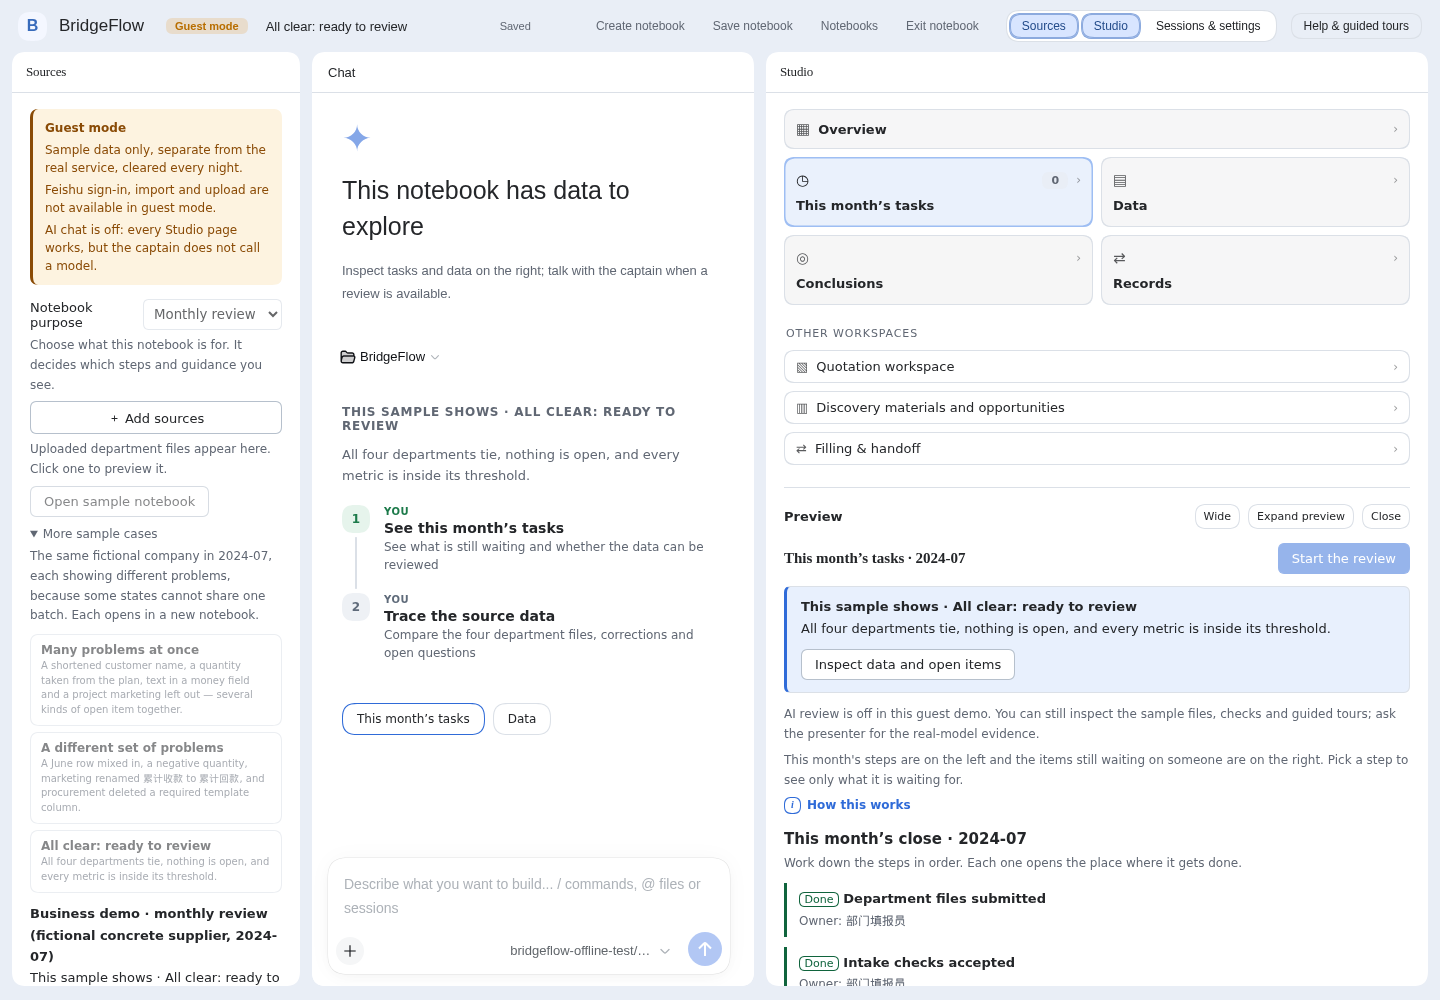
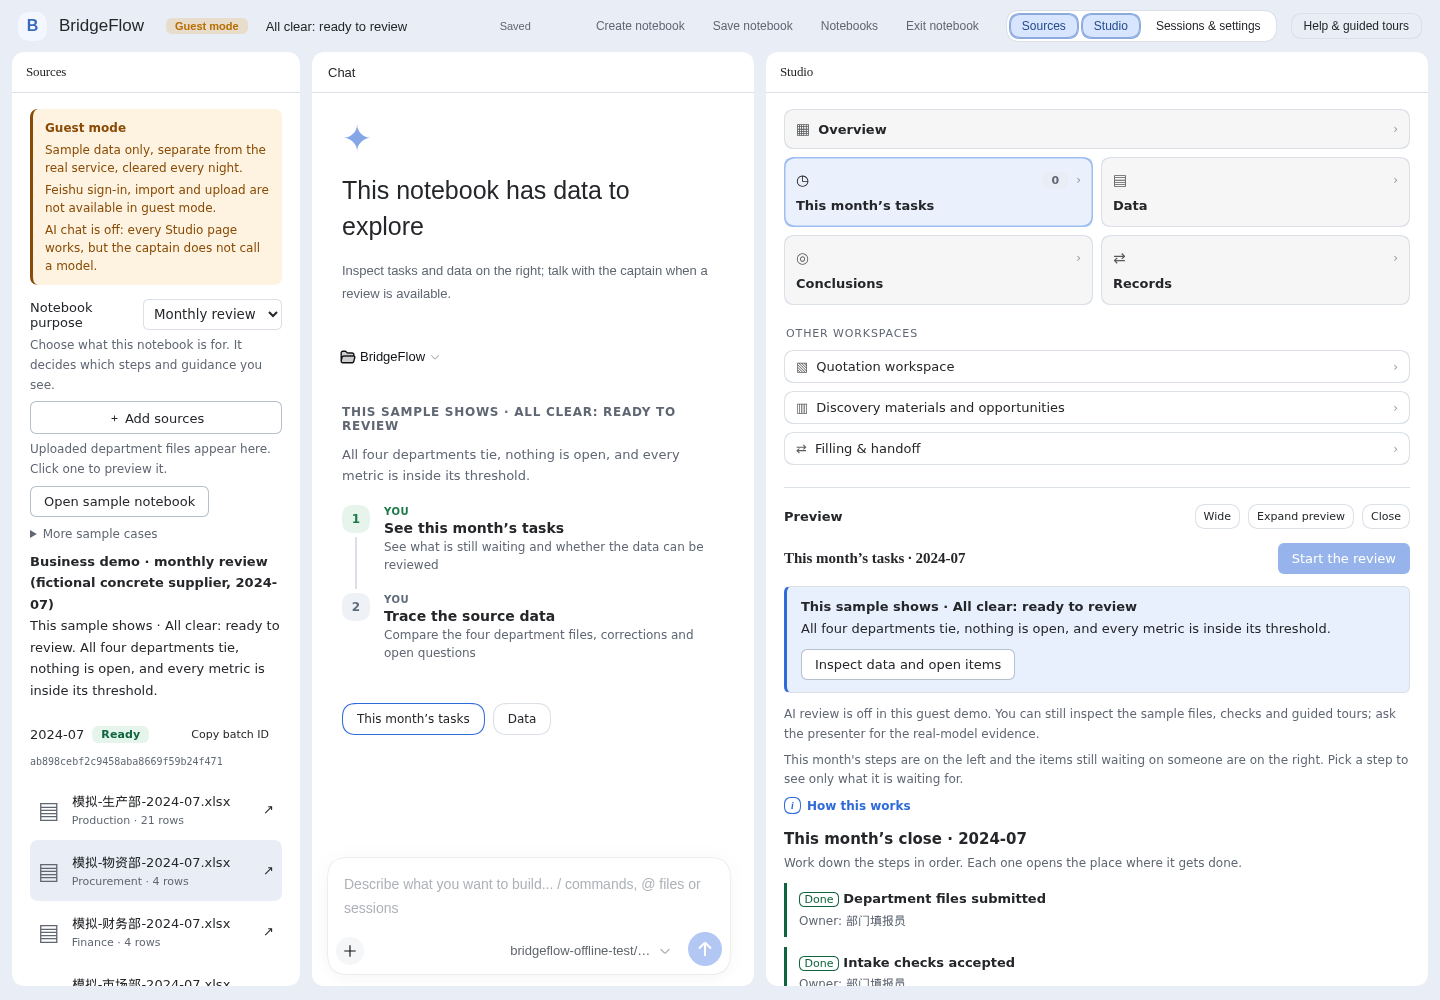
Fold sample picker after guest case selection

diff --git a/plugins/src/client/sample-cases.tsx b/plugins/src/client/sample-cases.tsx
@@ -1,4 +1,4 @@
-import { useEffect, useState } from 'react'
+import { useEffect, useRef, useState } from 'react'
 import { api, useUI } from './ui.ts'
 
 type Case = { id: string; case_id: string; title: [string, string]; summary: [string, string] }
@@ -25,6 +25,7 @@ export function useDemoCase(caseId: string): Case | null {
  */
 export function SampleCases({ disabled, open }: { disabled: boolean; open: (id: string, title: string) => void }) {
   const { t, language } = useUI()
+  const picker = useRef<HTMLDetailsElement>(null)
   const [cases, setCases] = useState<Case[]>([])
   useEffect(() => {
     const controller = new AbortController()
@@ -34,11 +35,11 @@ export function SampleCases({ disabled, open }: { disabled: boolean; open: (id: 
   }, [])
   if (!cases.length) return null
   const pick = (pair: [string, string]) => pair[language === 'zh' ? 0 : 1]
-  return <details className="bf-sample-cases">
+  return <details ref={picker} className="bf-sample-cases">
     <summary>{t('sampleCases')}</summary>
     <p className="bf-hint">{t('sampleCasesHelp')}</p>
     <ul>{cases.map(c => <li key={c.id}>
-      <button data-case={c.id} disabled={disabled} onClick={() => open(c.id, pick(c.title))}><strong>{pick(c.title)}</strong><small>{pick(c.summary)}</small></button>
+      <button data-case={c.id} disabled={disabled} onClick={() => { if (picker.current) picker.current.open = false; open(c.id, pick(c.title)) }}><strong>{pick(c.title)}</strong><small>{pick(c.summary)}</small></button>
     </li>)}</ul>
   </details>
 }

diff --git a/docs/00-status.md b/docs/00-status.md
@@ -27,16 +27,18 @@
 
 这次比 [09-20 自评](../HANDOFF.md#历史评审-rubric-自评2026-09-20)更有把握的部分是第 2、3、6 项：多步真实模型链路、全量工具选择评测及真实运行轨迹已经留证。第 3 项不因 18/18 直接给满分，第 6 项也不把脚本化回归当成模型质量证明。
 
-## 27 日交付前的演示闸门（2026-09-24，`main@12b790c` 加 PR #263）
+## 27 日交付前的演示闸门（2026-09-24，`main@d2baf34` 加后续本地修复）
 
 **当前仍是待验收，不把上面的技术自评当成交付分数。** 新功能和新需求先暂停，只处理演示主路径的故障、错误表述及其回归。
+
+[PR #263](https://github.com/EricWang1358/BridgeFlow-AI/pull/263) 已合并；[main 测试、CD、公网健康检查和实例预检](https://github.com/EricWang1358/BridgeFlow-AI/actions/runs/35961749825)全部通过。合并后只读探测：主站返回 301、门户 `/health` 返回 200；门户 `/guest` 仍返回 404，`guest.` 子域名 TLS 握手失败。CD 已部署主站，独立访客入口尚未完成服务器装配。
 
 | 闸门 | 当前证据与结论 |
 | --- | --- |
 | 本地离线主路径 | 在私有 dsh 上复跑员工身份的材料→候选→图→评分→会议→决策浏览器旅程、工作流、月结、四部门研判、报价、三套样例、冷重启、笔记本恢复、部门故障和 README 截图旅程，均通过。员工旅程最初被过期的浏览器测试夹具挡住：它仍写旧的 `users` ACL，且按旧界面查找折叠内容和流程节点；修复测试夹具后通过。评分图第 51 个候选标题的 API 回归与引导四象限完整可见性检查已补上并通过。三本样例的待办固定在各自批次，回开第一本仍显示自己的 15 条；趋势图的当前月端点也固定为正在看的批次。左侧来源、中央欢迎与任务页显示一致的案例问题，已载入样例不再要求重新导入；示例切换入口留在首屏，延迟批次响应时不会短暂显示旧批次来源，未就绪研判按钮及新笔记本创建时快速转向流转页也在浏览器中核对。复现：`BRIDGEFLOW_TEST_DISCOVERY=1 BRIDGEFLOW_TEST_EMPLOYEE=1 BRIDGEFLOW_LIVE=0 pnpm --dir plugins smoke:web`，以及 [交接文档中的其余命令](../HANDOFF.md)。测试模型是脚本化的，不能代替现场真实模型验收。 |
 | 代码回归 | 本轮当前分支后端 743、插件 100 条全过，TypeScript 类型检查与相关 Ruff 通过。门户未改，46 条沿用上轮验证；CI 以 PR 当前提交为准。 |
 | 负责人本机演示 | 3082 已重启到当前分支；8000 后端、8100 门户健康，3082 无会话的 401 符合身份围栏预期。新 Command Code 接口以极小请求得到 `OK`，原生 dsh 单题真实模型工具选择正确调用 `batch_summary`（55,625 token）。无飞书登录态的浏览器会被数据接口要求登录；负责人登录后仍需手工走查四样例与两条引导，不能把进程健康或单题模型调用当作走查完成。 |
-| 公网访客入口 | 独立访客实例代码已合入；2026-09-24 只读探测：门户首页返回 200，却没有 `/guest` 入口，`guest.<domain>` TLS 仍不可用。[服务器装配步骤](22-lightsail-deploy.md)中的 DNS、环境变量、服务与重置定时器仍待执行和验收。当前分支的浏览器旅程验证了关闭 AI 时任务页、流转页的禁用与提示；另在临时隔离 worktree 启动真实 `--guest` 进程，从其令牌入站，干净样例与流转样例均可浏览、相应模型按钮禁用且无页面错误。部署 preflight 新增启用 guest 后的入口、令牌和 TLS 条件检查，尚未在服务器执行。该验证仍不等于公网验收。 |
+| 公网访客入口 | 独立访客实例代码已合入；2026-09-24 合并部署后只读探测：门户首页 200、`/guest` 404，`guest.<domain>` TLS 仍不可用。[服务器装配步骤](22-lightsail-deploy.md)中的 DNS、环境变量、服务与重置定时器仍待执行和验收。浏览器旅程验证了关闭 AI 时任务页、流转页的禁用与提示；访客打开样例后选择器会收起，使当前案例说明回到首屏。另在临时隔离 worktree 启动真实 `--guest` 进程，从其令牌入站，干净样例与流转样例均可浏览、相应模型按钮禁用且无页面错误。部署 preflight 新增启用 guest 后的入口、令牌和 TLS 条件检查；当前未启用 guest，条件检查仍无现场结果。该验证仍不等于公网验收。 |
 | 真实业务输入 | 客户导出、业务口径及企业签核仍未到；[外部输入清单](27-external-inputs.md)未收齐。20 万行样例在现有上传/解压上限下导不进，实测见本文下方的 #228 记录。交付演示应使用已验证的合成样例并如实标明边界。 |
 
 ## 引导补流程线路、样例覆盖与私有 dsh（2026-09-24，分支 `feat/tour-workflow`）

diff --git a/HANDOFF.md b/HANDOFF.md
@@ -6,6 +6,7 @@
 
 ## 2026-09-24 交付前逐项打磨：评委看三本样例
 
+- **访客示例切换**：访客从「更多示例」打开样例后，列表会继续展开，把当前案例说明挤出首屏。现在点案例时先收起选择器；浏览器回归先复现失败、修复后通过，[访客截图](docs/evidence/demo-cases/case-clean-guest.png)显示当前案例及文件在首屏。等待笔记本加载完成后再截图，避免把短暂的加载状态误作最终画面。
 - **已载入样例的中央引导**：空会话原本始终写「先导入四部门文件」并给「开始导入」，即使四份样例文件早已载入。现在有批次时中央欢迎语和下一步改为当前样例的问题、查看本月任务、追到来源数据；空白笔记本仍显示原导入路径。文案来自同一案例登记表，不引导有问题的批次直接研判。三案例与中文浏览器旅程检查中央文案，[截图](docs/evidence/demo-cases/)及 README 截图已更新。
 - **趋势图串样例修复**：同月后导入的样例曾覆盖较早样例趋势图的 7 月末端点，导致图表与正在看的笔记本不一致。现在末端固定取当前 `batch_id`，只在历史月份查最新可见批次；双样例回归先复现失败、修复后通过。
 - **切换时不闪旧内容**：路由切到新笔记本后，来源文件、产物、案例说明和待办数字原先可能短暂沿用上一本。现在批次数据和结果一起绑定到对应 `batch_id`，总览与结论页按批次重新挂载；浏览器旅程延迟批次响应后检查来源栏不会把新路由标成旧批次。
